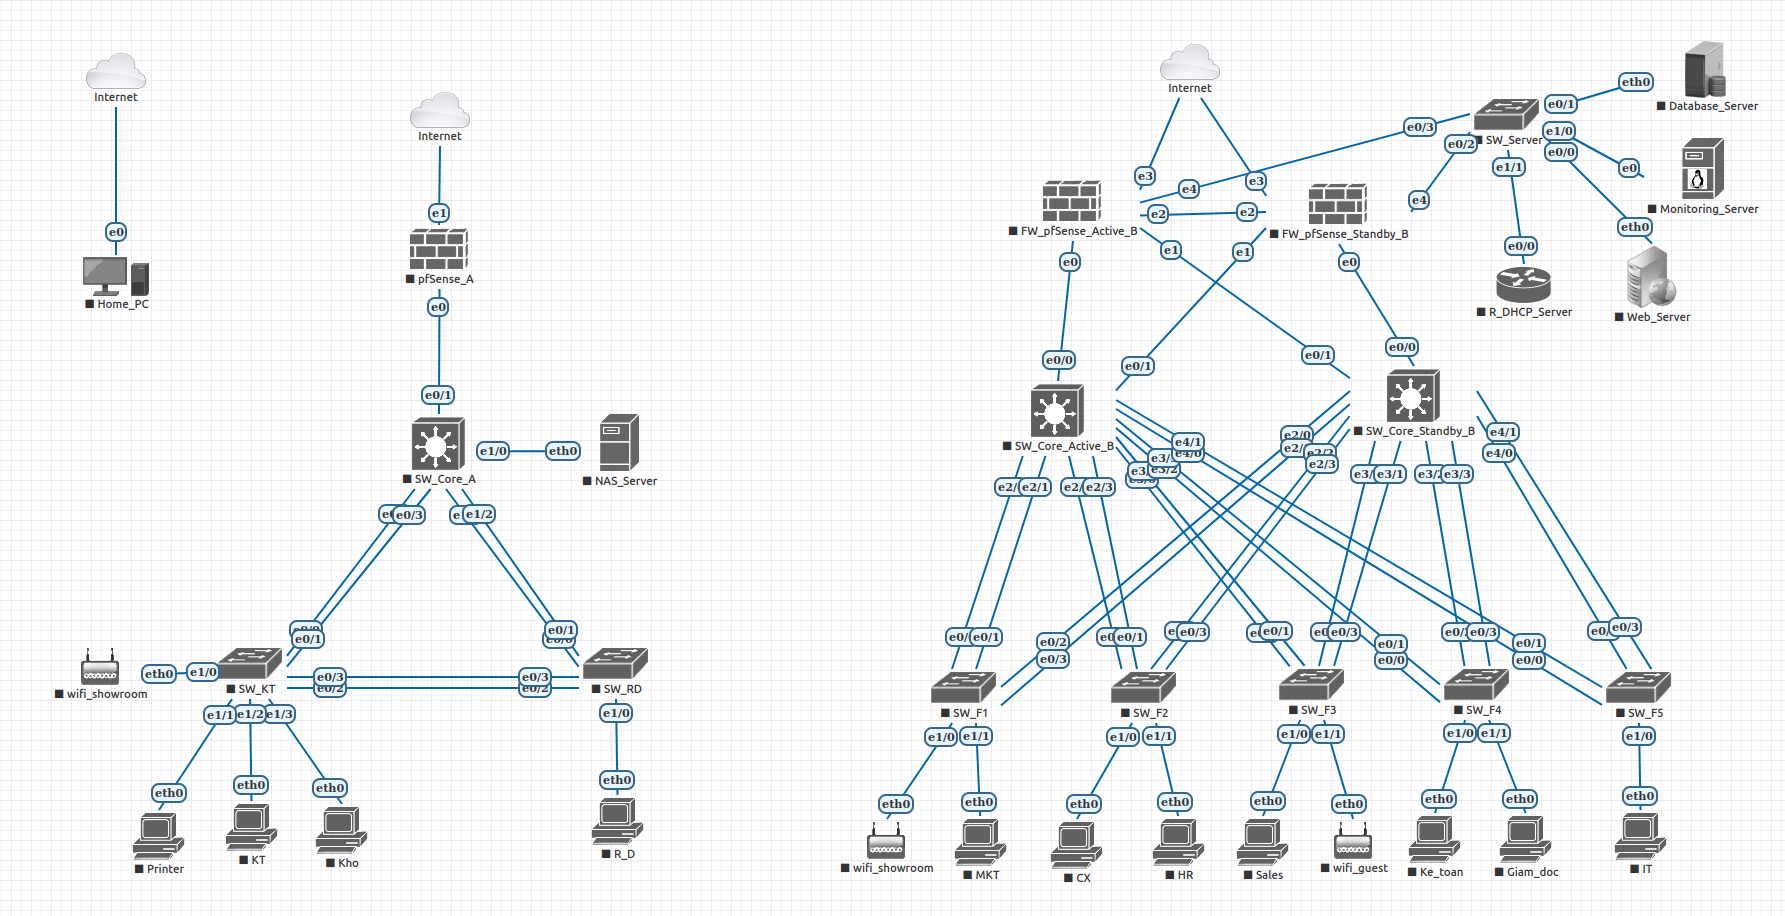
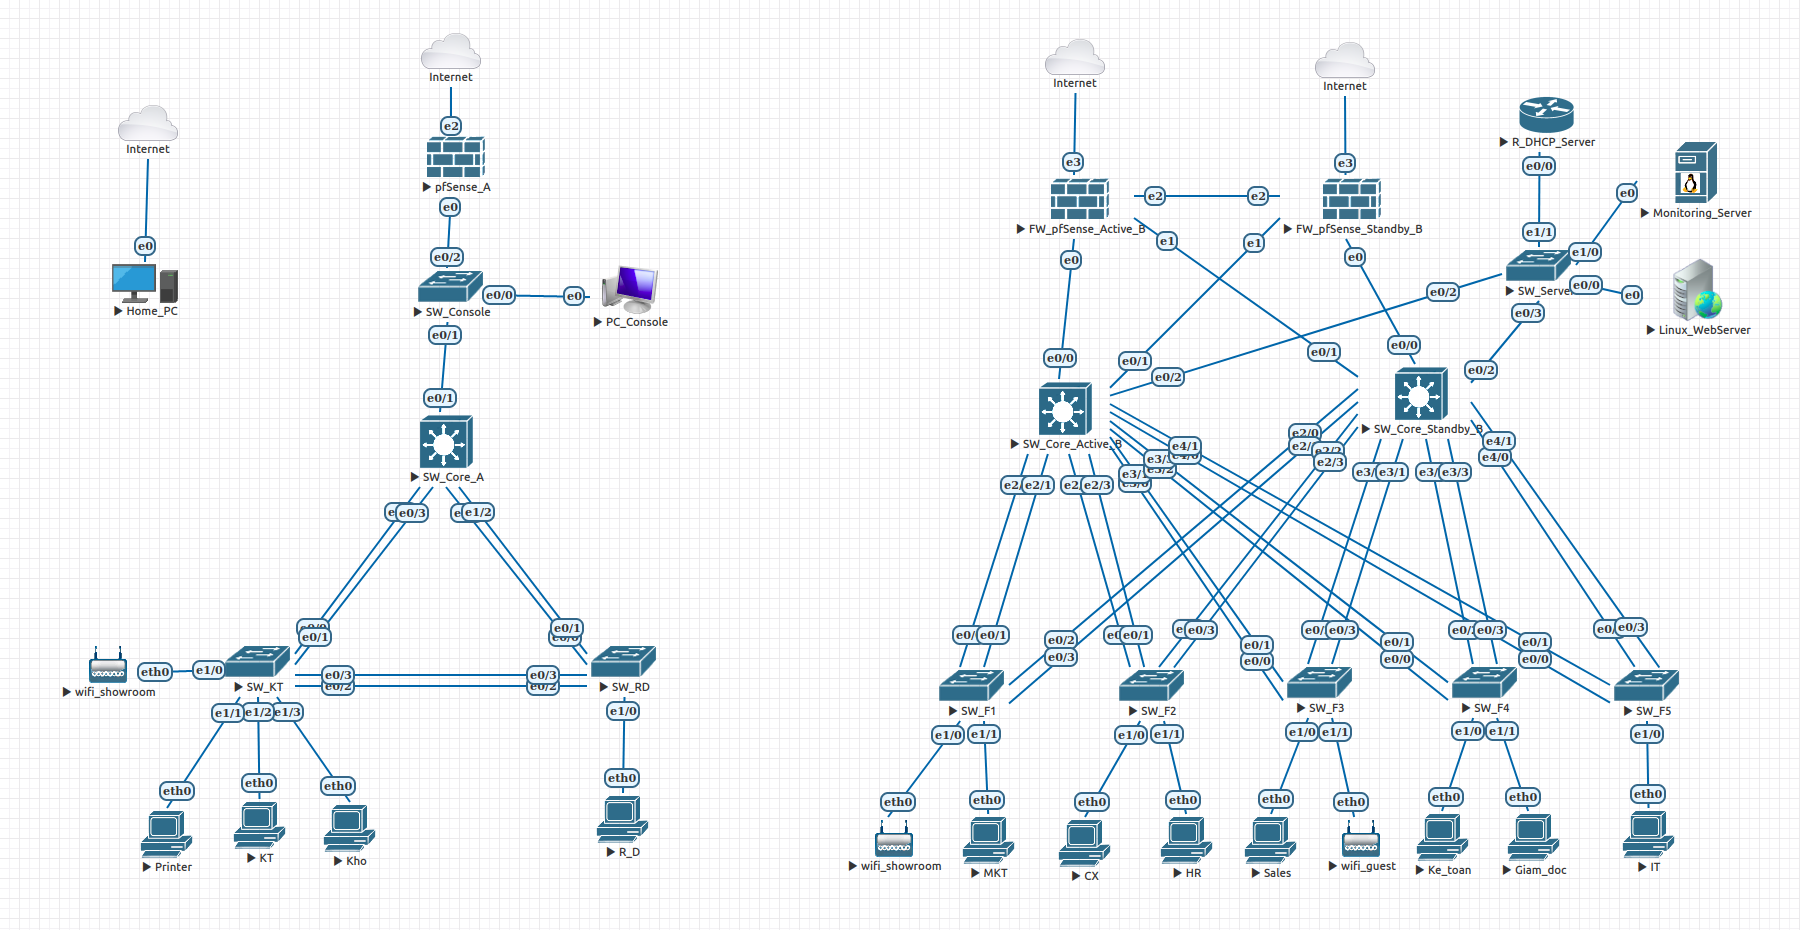
edit README

diff --git a/README.md b/README.md
@@ -15,24 +15,20 @@ https://docs.google.com/spreadsheets/d/1Qv2cCKSXS4DtV4rxd2ezQ3oRR3AkluJIYRX271ew
 ## Yêu cầu Tổng quát
 - Tạo kết nối **tunel** giữa *Tòa nhà A* và *Tòa nhà B*, để các PC giữa 2 tòa nhà có thể **ping** với nhau.
 - Các PC trong cả 2 tòa nhà đều truy cập được Internet.
+- **Web_Server** được NAT ra bên ngoài và các PC có thể truy cập **HTTP** của web server.
 - Monitoring hệ thống.
 
 ### Tòa nhà A
 - Phần *wifi_showroom* **chỉ được phép** truy cập Internet.
-- Các PC trong mạng có thể **Ping được với nhau** và có thể **truy cập** vào được *Database_Server* và *Web_Server*.
-- **NAS_Server** thì **chỉ** có *phòng R&D* là truy cập được.
 
 ### Tòa nhà B
 - Phần **wifi_showroom** và phần **wifi_guest** chỉ được phép truy cập Internet.
-- Các PC trong mạng có thể *ping được với nhau* và có thể **truy cập** vào được *Database_Server* và *Web_Server*.
 - Tạo **vlan 99** để **phòng IT** có thể truy cập (hoặc control) các switch (hoặc router) của **cả hai tòa nhà**.
 - Thiết lập sao cho **Home_PC** có thể truy cập được **Web_Server**.
-- Thiết lập sao cho **Home_PC** có thể truy cập được **Database_Server**, thông qua **Tunel**.
+- Thiết lập sao cho **Home_PC** có thể truy cập được **Monitoring_Server**, thông qua **Tunel**.
 - Thiết lập sao cho **Home_PC** có thể ping được với các PC trong phòng ban **IT**, thông qua **Tunel**.
 - Cấu hình sao cho **Router DHCP_Server** cấp IP cho cả *Tòa nhà A* và *Tòa nhà B*.
-- Cấu hình sao cho **chỉ** *phòng IT* và *phòng Giám đốc* có thể truy cập vào được *NAS_Server* của **Tòa nhà A**.
 - Đảm bảo tính **HA** (High Available) cho *tòa nhà B*.
-
 
 ---------------------------------------------------------------------------------------------------------------------------
 ## Phân hoạch IP

diff --git a/Others/pfsense/LAN_connect_Internet/Readme.md b/Others/pfsense/LAN_connect_Internet/Readme.md
@@ -1,0 +1,22 @@
+- Mình có con pfsense với IP là:
+```
+WAN: 192.168.1.7/24
+LAN: 172.16.3.1/24
+```
+- Mình có thể từ 172.16.3.1 ping tới 192.168.1.7
+- Có thể ping tới 8.8.8.8 với source là 192.168.1.7
+- Nhưng từ 172.16.3.1 thì không ping được 8.8.8.8
+
+### Khắc phục
+- Lên pfsense chỉnh lại phần **LAN** trong trang config.
+- Vào **Interfaces** -> **LAN**.
+- Lưu ý phần **IPv4 Upstream gateway** là **None**.
+- Sau đó save lại.
+
+### Kết quả
+- Mình đã ping được 8.8.8.8 với source 172.16.3.1
+- Câu lệnh:
+```
+ping -S 172.16.3.1 8.8.8.8
+```
+
